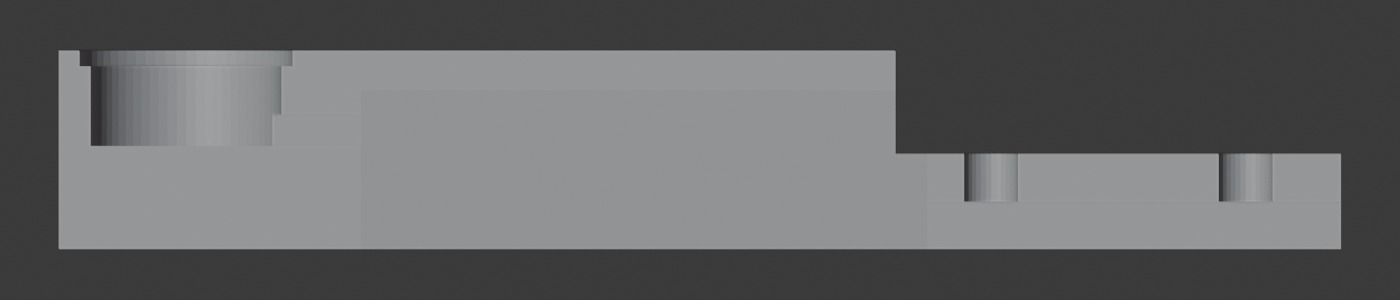
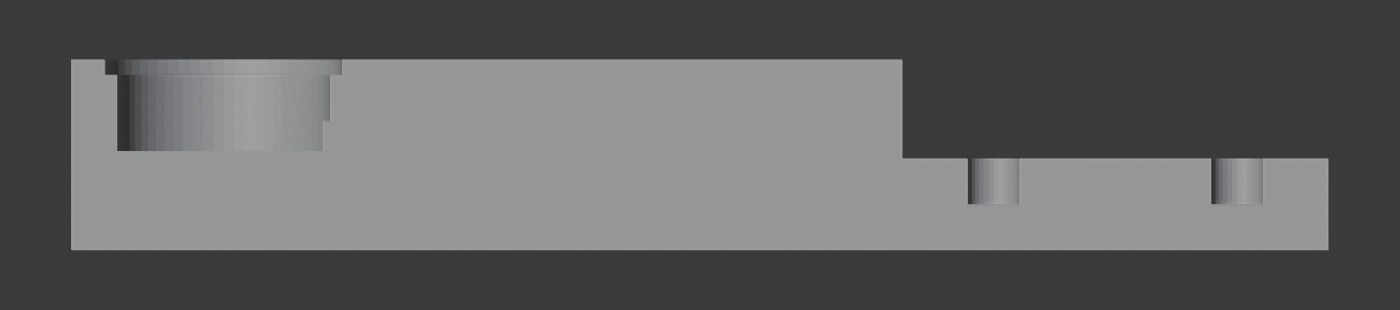
add: arm v2 for the Ø15 board, slide-in lid, versioned file names
The board is 15 mm, not 13 — v1 was printed and would not take it. The
Ø15.6 recess needs meat around it, so the tip goes to Ø20 and the arm to
a constant 20 mm width.

Two-part arm no longer needs glue. The lid is a T-bar sliding into a
T-slot from the root end, stopping on the tip block; the hub's top plate
closes the last degree of freedom on assembly. A slide-in lid cannot
carry the Ø20 tip through its own slot, so the tip and the microphone
seat moved into the body — which also removes the 15 mm channel bridge.

Hardware files now carry an iteration number and the dimension that
defines them. v1 is kept, not overwritten: it was printed, and a printed
part needs the file it came from.

Changed region(s): [[0.0307, 0.15, 0.9829, 0.84], [0.86, 0.51, 0.8907, 0.69], [0.6757, 0.51, 0.7064, 0.69]]

diff --git a/README.md b/README.md
@@ -136,8 +136,9 @@ means nothing.
 
 ![Arm tip: flush Ø13.4 recess, Ø12 clearance cavity below](imgs/arm_tip.jpg)
 
-The INMP441 breakout is a 13 mm round board, 1 mm thick. Two properties of it
-shape the tip:
+The INMP441 breakout is a **15 mm** round board, 1 mm thick. (The first printed
+iteration was built for 13 mm and the board would not go in — measure yours before
+printing three of them.) Two properties of it shape the tip:
 
 - The acoustic port is **central**. The MEMS die is bottom-ported and the PCB is
   drilled through beneath it, so the hole sits on the board's axis. Board rotation
@@ -146,16 +147,26 @@ shape the tip:
   mounted chip-down, bare face to the sky, or the port is sealed. Do not fit the
   supplied headers; solder wires directly to the pads from the chip side.
 
-The tip has a Ø13.4 × 1.0 mm recess so the board sits flush with the arm's top
+The tip has a Ø15.6 × 1.0 mm recess so the board sits flush with the arm's top
 face — flush, not sunk, because a cavity above the port is a Helmholtz resonator
 and a resonator is a phase shift, which reads as a fake delay. The recess wall
 centres the board mechanically, which is where the 1 mm budget is actually spent.
+Clearance is a generous 0.3 mm per side; the resulting 0.3 mm of possible
+off-centre costs 0.06° of azimuth, so there is nothing to gain by making it tight.
 
-Below it is a Ø12 × 5 mm clearance cavity. It is that wide because the six pads
-are spread near the board's rim, at roughly R5–6.5 mm; a narrower cavity would
-have left the solder joints resting on the seat. The remaining ledge is 0.7 mm
-wide, at R6.0–6.7. A side slot carries the wires into the arm's channel and vents
-the cavity so it is not a sealed pressure chamber.
+Below it is a Ø14 × 5 mm clearance cavity, leaving a 0.8 mm ledge at R7.0–7.8.
+The six pads run close to the board's rim, so solder joints may still touch that
+ledge and hold one edge of the board a few tenths high. That is deliberate and
+harmless: in-plane position — the part that matters — is set by the recess wall,
+not by the ledge, and a 0.3 mm out-of-plane tilt costs about 0.05° for a source
+at 30° elevation. Trim the solder flush if you like; it changes almost nothing.
+
+Fitting the Ø15.6 recess is what drove the tip to Ø20 and, with it, the arm to a
+constant 20 mm width. At the old Ø16 tip there would have been 0.2 mm of wall left
+around the board.
+
+A side tunnel carries the wires into the arm's channel and vents the cavity so it
+is not a sealed pressure chamber.
 
 Rain is unresolved. The port faces up, which is right for a source overhead and
 wrong for weather. A hydrophobic PTFE membrane under the board is the standard
@@ -203,15 +214,35 @@ feet have Ø5 mm holes for ground pegs; outdoors, use them.
 
 ### Parts and hardware
 
+File names carry an iteration number and the dimension that defines it, so
+superseded versions can sit alongside current ones without being confused for
+them. Nothing is ever deleted — a printed part is evidence, and you want to be
+able to go back to the file it came from.
+
+**Build this:**
+
 | STL | Qty | Mass | Size (mm) |
 |---|---|---|---|
-| `arm.stl` | 3 | 11.3 g | 80.6 × 20 × 12.5 |
-| `hub_top.stl` | 1 | 26.4 g | 73.5 × 84.9 × 8 |
-| `hub_bottom.stl` | 1 | 26.2 g | 73.5 × 84.9 × 8 |
-| `tube_collar_top.stl` | 1 | 26.9 g | 54.5 × 52 × 31 |
-| `tube_foot.stl` | 1 | 52.2 g | 176 × 203 × 32 |
+| `arm_v2_mic15.stl` | 3 | 11.1 g | 82.6 × 20 × 12.5 |
+| `hub_top_v1.stl` | 1 | 26.4 g | 73.5 × 84.9 × 8 |
+| `hub_bottom_v1.stl` | 1 | 26.2 g | 73.5 × 84.9 × 8 |
+| `tube_collar_top_v1_tube25.stl` | 1 | 26.9 g | 54.5 × 52 × 31 |
+| `tube_foot_v1_tube25.stl` | 1 | 52.2 g | 176 × 203 × 32 |
 
-166 g of PETG in total, plus the tube.
+165 g of PETG in total, plus the tube.
+
+For the two-part arm, swap `arm_v2_mic15.stl` for `arm_body_v2_mic15.stl` (12.4 g,
+82.6 × 20 × 12.5) plus `arm_lid_v2_mic15_slide.stl` (1.5 g, 34.2 × 14.6 × 2.5) —
+13.9 g per arm, 173 g for the build. Same geometry and the same 86.6 mm radius as
+the one-piece; take one or the other, never both.
+
+**Superseded — kept for reference, do not print:**
+
+| STL | Why it was replaced |
+|---|---|
+| `arm_v1_mic13.stl` | seat built for a Ø13 board; the real board is Ø15 |
+| `arm_body_v1_mic13.stl` | same, and its lid needed glue |
+| `arm_lid_v1_mic13_glued.stl` | superseded by the slide-in lid |
 
 - 6 × M3×16 + 6 nuts — arms to hub
 - 3 × M4×12 + 3 nuts — hub to tube clamp
@@ -241,27 +272,43 @@ deposited underneath, and none of these surfaces is one anybody sees or measures
 
 | Ceiling | Span | Where |
 |---|---|---|
-| Cable channel | 15 → 11 mm | full length of the arm |
+| Cable channel | 15 mm | full length of the arm |
 | Cable tunnel | 5 mm | between cavity and channel |
 | Tab cable groove | 5 mm | under the root tab |
 
 PETG bridges these fine with the part cooling fan on. Use a brim — bed contact is
-only about 890 mm², because the beam touches the plate on two 2.5 mm walls.
+only about 950 mm², because the beam touches the plate on two 2.5 mm walls.
 
-If you would rather not bridge at all, `arm_lid.stl` + `arm_body.stl` are the same
-arm split along the channel ceiling — print both flat, glue together.
+The two-part arm has only the last two: without a lid over it, the body's cable
+channel has no ceiling at all.
 
-![Arm split into lid and body for support-free printing](imgs/arm_split.jpg)
+If you would rather not bridge at all, `arm_body_v2_mic15.stl` +
+`arm_lid_v2_mic15_slide.stl` are the same arm as two parts. **No glue and no
+fasteners** — the lid is a T-bar that slides into a matching T-slot in the body,
+from the root end, until it stops against the tip block.
 
-The split plane is horizontal, running along the arm, and that is deliberate. A
-glue line has an uncontrolled thickness of a tenth of a millimetre or so; lying
-this way it adds that error to the arm's *height*, where nothing depends on it.
-Split across the arm instead and the same error would land straight on the
-86.6 mm radius, which is the one dimension the whole instrument is built around.
+![Arm as body and slide-in lid](imgs/arm_split.jpg)
 
-The lid carries a locating tongue (0.3 mm clearance per side) that drops into the
-channel, so it cannot be glued crooked. Bond area is roughly 270 mm² — vastly more
-than the 0.005 mm-deflection loads need.
+| | |
+|---|---|
+| Lid flange | 14.6 mm wide × 1.55 mm |
+| Lid rib | 11.6 mm wide, flush with the top face |
+| Clearance | 0.20 mm per side, 0.15 mm vertical |
+| Travel | 34.6 mm |
+
+The flange rests on shelves inside the slot and the lips above it stop it lifting
+out, so it is captive in every direction but one. That last one is closed on
+assembly: the hub's top plate overlaps the lid's end face, so once the arm is
+bolted down the lid cannot come back out.
+
+This is why the split had to move. A lid that slides in sideways cannot contain
+the Ø20 tip — it would not fit through its own slot — so the tip, with the
+microphone seat, now belongs to the body. That turns out better anyway: with no
+lid over it, the body's cable channel has **no ceiling to bridge at all**, and the
+lid becomes a 1.5 g strip that prints in minutes.
+
+It also means the wiring is reworkable. Slide the lid out, change a wire, slide it
+back — no glue to cut.
 
 Print all three arms together, from the same file and spool, so their errors stay
 common-mode.
